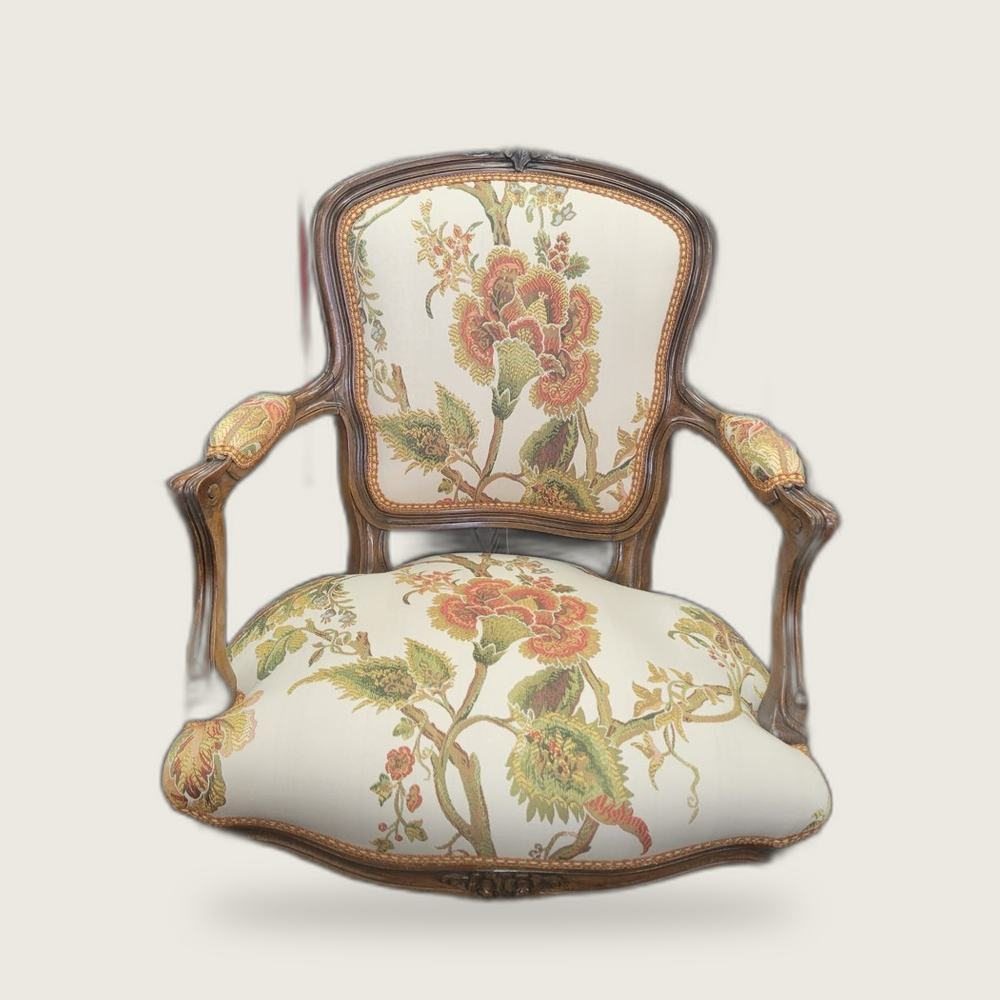
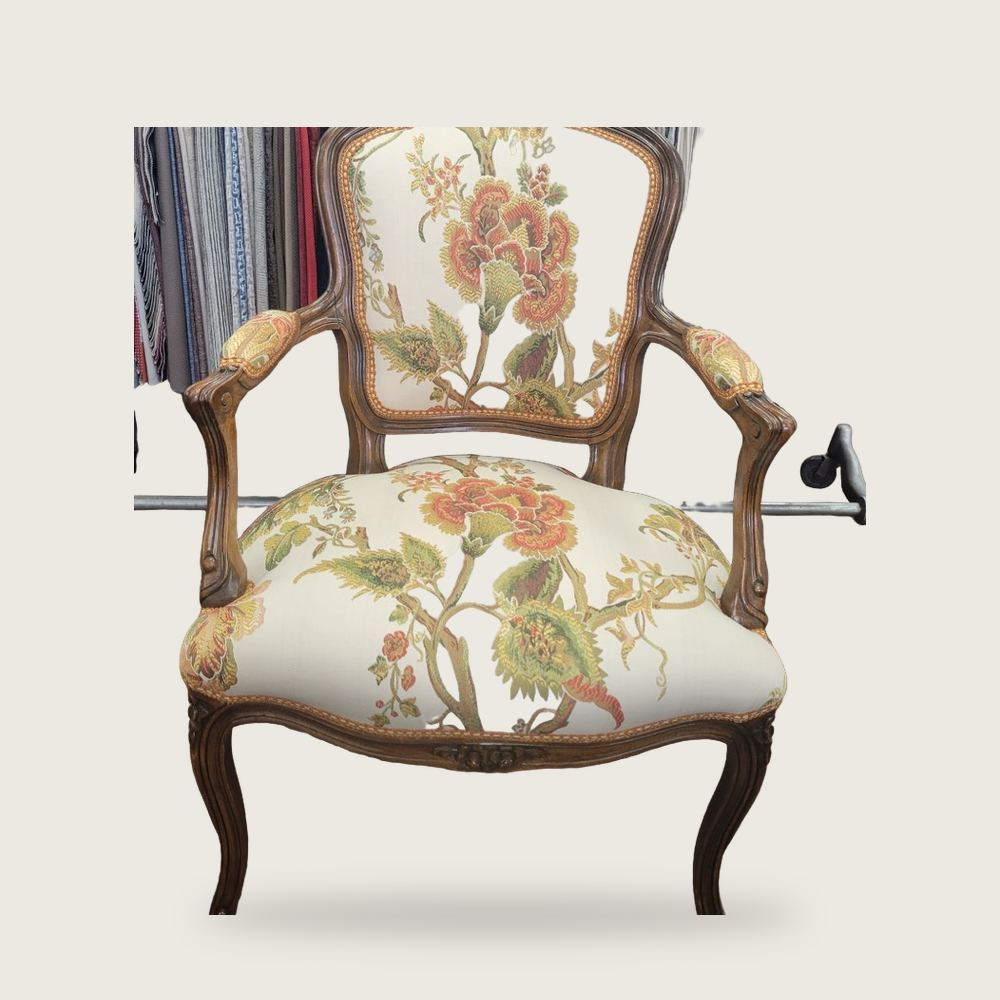
Détourages refaits : BiRefNet au lieu de rembg
Les vignettes ne montraient pas un fond retiré mais un halo : rembg
laissait 20,85 % de pixels semi-transparents autour du rotin, d'où
l'impression de fondu, et il amputait au passage les patins de la
berçante.

- Repassé sur fal avec birefnet/v2 (General Use Heavy, 2048, matte
  affinée) : le halo tombe à 5,4 %, et l'essentiel de ce qui reste
  est le vrai maillage ajouré du cannage.
- Les objets de décor restés accrochés au sujet sont retirés en
  recadrant le découpage, pas la photographie : la matte reste
  intacte.
- Le meuble n'est pas retouché, seulement détouré.
- Fauteuil tonneau et Louis XVI écartés : la matte perçait le dossier
  en plein tissu, ce qu'aucun recadrage ne répare. La paire de
  fauteuils os-de-mouton les remplace.

Deux fausses pistes en chemin, notées pour mémoire : garder la plus
grande composante connexe supprimait la seconde bergère, et un
remplissage des trous par diffusion depuis les coins a rempli le fond
entier en noir.

diff --git a/index.html b/index.html
@@ -273,8 +273,8 @@
         <figcaption data-en="Art deco tub chair · chevron weave">Fauteuil art déco · tissé à chevrons</figcaption>
       </figure>
       <figure class="rise">
-        <img src="assets/travaux/fauteuil-tonneau.jpg" alt="Fauteuil tonneau à bois noirci sculpté, recouvert d’un tissé bleu à feuillage." loading="lazy" width="1000" height="1000">
-        <figcaption data-en="Barrel chair · carved ebonised frame">Fauteuil tonneau · bois sculpté noirci</figcaption>
+        <img src="assets/travaux/paire-os-mouton.jpg" alt="Paire de fauteuils os-de-mouton recouverts d’un imprimé floral, bois clair." loading="lazy" width="1000" height="1000">
+        <figcaption data-en="Pair of os-de-mouton armchairs">Paire de fauteuils os-de-mouton</figcaption>
       </figure>
       <figure class="rise">
         <img src="assets/travaux/rocking-cannage.jpg" alt="Chaise berçante en rotin dont le dossier et l’assise ont été recannés à la main." loading="lazy" width="1000" height="1000">

diff --git a/build.py b/build.py
@@ -384,8 +384,8 @@ HOME = '''<section class="hero" id="haut">
         <figcaption data-en="Art deco tub chair · chevron weave">Fauteuil art déco · tissé à chevrons</figcaption>
       </figure>
       <figure class="rise">
-        <img src="assets/travaux/fauteuil-tonneau.jpg" alt="Fauteuil tonneau à bois noirci sculpté, recouvert d’un tissé bleu à feuillage." loading="lazy" width="1000" height="1000">
-        <figcaption data-en="Barrel chair · carved ebonised frame">Fauteuil tonneau · bois sculpté noirci</figcaption>
+        <img src="assets/travaux/paire-os-mouton.jpg" alt="Paire de fauteuils os-de-mouton recouverts d’un imprimé floral, bois clair." loading="lazy" width="1000" height="1000">
+        <figcaption data-en="Pair of os-de-mouton armchairs">Paire de fauteuils os-de-mouton</figcaption>
       </figure>
       <figure class="rise">
         <img src="assets/travaux/rocking-cannage.jpg" alt="Chaise berçante en rotin dont le dossier et l’assise ont été recannés à la main." loading="lazy" width="1000" height="1000">
